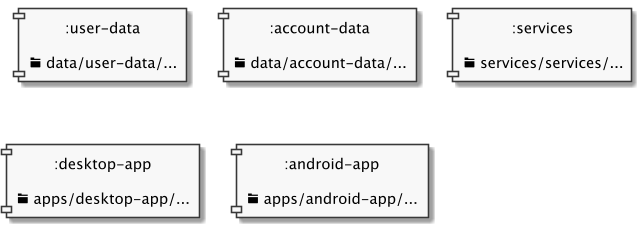
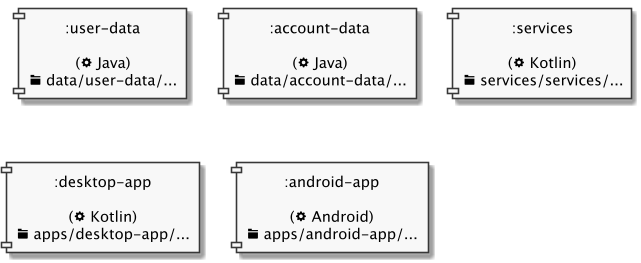
Publish of Github pages from Gradle.

diff --git a/index.html b/index.html
@@ -22,7 +22,7 @@ KOTLIN/Everywhere Hamburg 2019
 </h3></p></div></div></section>
 <section id="who-is-gradle" data-transition="none"><h2>Who is Gradle?</h2><div class="imageblock" style=""><img src="./images/gradle-staff-map.png" alt="gradle staff map" width="1000" height="0%" /></div></section>
 <section id="what-is-gradle" data-transition="none"><h2>What is Gradle?</h2><div class="imageblock" style=""><img src="./images/gradle-structure.png" alt="gradle structure" width="1000" height="0%" /></div></section>
-<section><section id="model-your-project-with-gradle-and-kotlin-your-project-as-software-components" data-transition="none" data-background-color="#01303a"><h2>Model Your Project with Gradle and Kotlin: Your Project as Software Components</h2></section><section id="your-project-as-a-software-component" data-transition="none"><h2>Your Project as a Software Component</h2><div class="imageblock" style=""><img src="./images/components1.png" alt="components1" width="300" height="0%" /></div></section><section id="don-t-be-afraid-of-gradle-it-s-just-kotlin" data-transition="none"><h2>Don&#8217;t be afraid of Gradle - it&#8217;s just Kotlin</h2><div class="paragraph"><p><code>build.gradle.kts</code></p></div>
+<section><section id="model-your-project-with-gradle-and-kotlin-your-project-as-software-components" data-transition="none" data-background-color="#01303a"><h2>Model Your Project with Gradle and Kotlin: Your Project as Software Components</h2></section><section id="your-project-as-a-software-component" data-transition="none"><h2>Your Project as a Software Component</h2><div class="imageblock" style=""><img src="./images/components0.png" alt="components0" width="300" height="0%" /></div></section><section id="don-t-be-afraid-of-gradle-it-s-just-kotlin" data-transition="none"><h2>Don&#8217;t be afraid of Gradle - it&#8217;s just Kotlin</h2><div class="paragraph"><p><code>build.gradle.kts</code></p></div>
 <pre class="highlight listingblock"><code data-noescape="" class="kotlin language-kotlin">// empty file</code></pre>
 <div class="paragraph"><p><code>settings.gradle.kts</code></p></div>
 <pre class="highlight listingblock"><code data-noescape="" class="kotlin language-kotlin">rootProject.name = "kotlin-everywhere"</code></pre></section><section id="don-t-be-afraid-of-gradle-it-s-just-kotlin-2" data-transition="none"><h2>Don&#8217;t be afraid of Gradle - it&#8217;s just Kotlin</h2><div class="paragraph"><p><code>build.gradle.kts</code></p></div>
@@ -44,14 +44,12 @@ KOTLIN/Everywhere Hamburg 2019
 }</code></pre>
 <div class="paragraph"><p><code>settings.gradle.kts</code></p></div>
 <pre class="highlight listingblock"><code data-noescape="" class="kotlin language-kotlin">rootProject.name = "kotlin-everywhere"</code></pre></section><section id="don-t-be-afraid-of-gradle-it-s-just-kotlin-4" data-transition="none"><h2>Don&#8217;t be afraid of Gradle - it&#8217;s just Kotlin</h2><div class="paragraph"><p><code>buildSrc/src/main/kotlin/MyProject.kt</code></p></div>
-<pre class="highlight listingblock"><code data-noescape="" class="kotlin language-kotlin">object MyProject {
-    fun org.gradle.api.Project.configureMyProject() {
-        tasks.register("t1") {
-            inputs.dir("...")
-            ouptuts.file("...")
-            doLast {
-                // do some work
-            }
+<pre class="highlight listingblock"><code data-noescape="" class="kotlin language-kotlin">fun org.gradle.api.Project.configureMyProject() {
+    tasks.register("t1") {
+        inputs.dir("...")
+        ouptuts.file("...")
+        doLast {
+            // do some work
         }
     }
 }</code></pre>
@@ -102,23 +100,23 @@ rootProject.children.forEach {
 <div class="ulist"><ul><li><p><strong>Provide</strong>: define sets of artifacts I produce for other projects</p></li><li><p><strong>Consume</strong>: define sets of dependencies to projects and modules</p></li><li><p><strong>Resolve</strong>: tool to collect artifacts from dependencies (e.g. all <em>jars</em>)</p></li></ul></div></section><section id="variant-aware-dependency-management-2" data-transition="none"><h2>Variant-Aware Dependency Management</h2><div class="imageblock" style=""><img src="./images/components2-2-1.png" alt="components2 2 1" width="400" height="0%" /></div>
 <div class="paragraph"><p><strong>Provide</strong>: define sets of artifacts I produce for other projects (:services)</p></div>
 <pre class="highlight listingblock"><code data-noescape="" class="kotlin language-kotlin">val everythingYouNeedToRunMe by configurations.creating {
-    isCanBeResolved = false; isCanBeConsumed = true
+    isCanBeResolved = false; isCanBeConsumed = true // this is a variant!
 }</code></pre></section><section id="variant-aware-dependency-management-3" data-transition="none"><h2>Variant-Aware Dependency Management</h2><div class="imageblock" style=""><img src="./images/components2-2-2.png" alt="components2 2 2" width="600" height="0%" /></div>
 <div class="paragraph"><p><strong>Provide</strong>: define sets of artifacts I produce for other projects (:services)</p></div>
 <pre class="highlight listingblock"><code data-noescape="" class="kotlin language-kotlin">val everythingYouNeedToRunMe by configurations.creating {
-    isCanBeResolved = false; isCanBeConsumed = true
+    isCanBeResolved = false; isCanBeConsumed = true // this is a variant!
     extendsFrom(otherComponentsINeedToRun)
 }</code></pre>
 <div class="paragraph"><p><strong>Consume</strong>: define sets of dependencies to projects and modules (:desktop-app)</p></div>
 <pre class="highlight listingblock"><code data-noescape="" class="kotlin language-kotlin">val otherComponentsINeedToRun by configurations.creating {
-    isCanBeResolved = false; isCanBeConsumed = false
+    isCanBeResolved = false; isCanBeConsumed = false // this is a bucket!
 }
 dependencies {
     otherComponentsINeedToRun(project(":services"))
 }</code></pre></section><section id="variant-aware-dependency-management-4" data-transition="none"><h2>Variant-Aware Dependency Management</h2><div class="imageblock" style=""><img src="./images/components2-2-3.png" alt="components2 2 3" width="600" height="0%" /></div>
 <div class="paragraph"><p><strong>Resolve</strong>: tool to collect artifacts from dependencies (e.g. all <em>jars</em>)</p></div>
 <pre class="highlight listingblock"><code data-noescape="" class="kotlin language-kotlin">val pathToAllFiles by configurations.creating {
-    isCanBeResolved = true; isCanBeConsumed = true
+    isCanBeResolved = true; isCanBeConsumed = false // this is a tool!
     extendsFrom(otherComponentsINeedToRun)
 }
 tasks.register("allFiles") {
@@ -324,9 +322,28 @@ dependencies {
 <section id="maybe-try-a-build-scan-with-gradle-enterprise" data-transition="none"><h2>Maybe try a Build Scan with Gradle Enterprise</h2><div class="imageblock" style=""><img src="./images/scan-httpclient.png" alt="scan httpclient" width="800" height="0%" /></div>
 <div class="imageblock" style=""><img src="./images/scan-httpclient-comparison.png" alt="scan httpclient comparison" width="800" height="0%" /></div></section>
 <section id="remember" data-transition="none"><h2>Remember&#8230;&#8203;</h2><div class="ulist"><ul><li><p>With Gradle you model your project through a Java/Kotlin API</p><div class="ulist"><ul><li><p><code>org.gradle.api.Project</code> (basic building blocks, apply plugins here)</p></li><li><p><code>org.gradle.api.Task</code> (not covered today, let plugins add them)</p></li><li><p><code>org.gradle.api.artifacts.Configuration</code> (good stuff is hidden here)</p></li></ul></div></li><li><p>Use variants as interface between projects and modules</p><div class="ulist"><ul><li><p><em>Variant Attributes</em> and <em>Capabilities</em> 😳</p></li><li><p>Gradle 6.0 will go full steam on Gradle Module Metadata (GMM) 🚀</p></li><li><p>All new features shown are compatible with GMM 🥳</p></li><li><p>Configuration is the entry point (better APIs will follow) 🙈</p></li></ul></div></li></ul></div></section>
-<section id="thank-you" data-transition="none"><h2>Thank you</h2><div class="paragraph"><p>🐘 github.com/gradle/gradle</p></div>
-<div class="paragraph"><p>🕊 @jeoj</p></div>
-<div class="paragraph"><p>😺 @jjohannes</p></div></section></div></div><script src="reveal.js/lib/js/head.min.js"></script><script src="reveal.js/js/reveal.js"></script><script>Array.prototype.slice.call(document.querySelectorAll('.slides section')).forEach(function(slide) {
+<section id="thank-you" data-transition="none"><h2>Thank you</h2><div class="paragraph"><p>📽 <a href="https://jjohannes.github.io/kotlin-everywhere-2019-hh">jjohannes.github.io/kotlin-everywhere-2019-hh</a></p></div>
+<div class="paragraph"><p>🐘 <a href="https://github.com/gradle/gradle">github.com/gradle/gradle</a></p></div>
+<div class="paragraph"><p>🕊 <a href="https://twitter.com/jeoj">@jeoj</a></p></div>
+<div class="paragraph"><p>😺 <a href="https://github.com/jjohannes">@jjohannes</a></p></div></section>
+<section><section id="bonus-content" data-transition="none" data-background-color="#01303a"><h2>Bonus Content!</h2></section><section id="resolve-with-variant-selection-7" data-transition="none"><h2>Resolve with Variant Selection</h2><div class="imageblock" style=""><img src="./images/components2-9.png" alt="components2 9" width="900" height="0%" /></div>
+<div class="paragraph"><p><code>desktop-app/build.gradle.kts</code></p></div>
+<pre class="highlight listingblock"><code data-noescape="" class="kotlin language-kotlin">tasks.register("jars") {
+    doLast {
+        println(configurations["runtimeClasspath"].incoming
+            .artifacts.artifactFiles.map { it.name })
+    }
+}</code></pre>
+<div class="paragraph"><p><code>gradlew desktop-app:allFiles</code></p></div>
+<pre class="highlight listingblock"><code data-noescape="" class="kotlin language-kotlin">&gt; Task :desktop-app:allFiles
+[services.jar, user-data.jar, disruptor-1.2.15.jar,
+ slf4j-api-1.7.13.jar]</code></pre></section><section id="defining-variants-in-a-project" data-transition="none"><h2>Defining Variants in a Project</h2><div class="imageblock" style=""><img src="./images/components2-11.png" alt="components2 11" width="900" height="0%" /></div>
+<div class="paragraph"><p><code>services/build.gradle.kts</code></p></div>
+<pre class="highlight listingblock"><code data-noescape="" class="kotlin language-kotlin">configurations.create("rt-8-variant") {
+  isCanBeResolved = false; isCanBeConsumed = true
+  attributes { attribute(TargetJvmVersion.TARGET_JVM_VERSION_ATTRIBUTE, 8) }
+  extendsFrom("implementation")
+}</code></pre></section></section></div></div><script src="reveal.js/lib/js/head.min.js"></script><script src="reveal.js/js/reveal.js"></script><script>Array.prototype.slice.call(document.querySelectorAll('.slides section')).forEach(function(slide) {
   if (slide.getAttribute('data-background-color')) return;
   // user needs to explicitly say he wants CSS color to override otherwise we might break custom css or theme (#226)
   if (!(slide.classList.contains('canvas') || slide.classList.contains('background'))) return;
